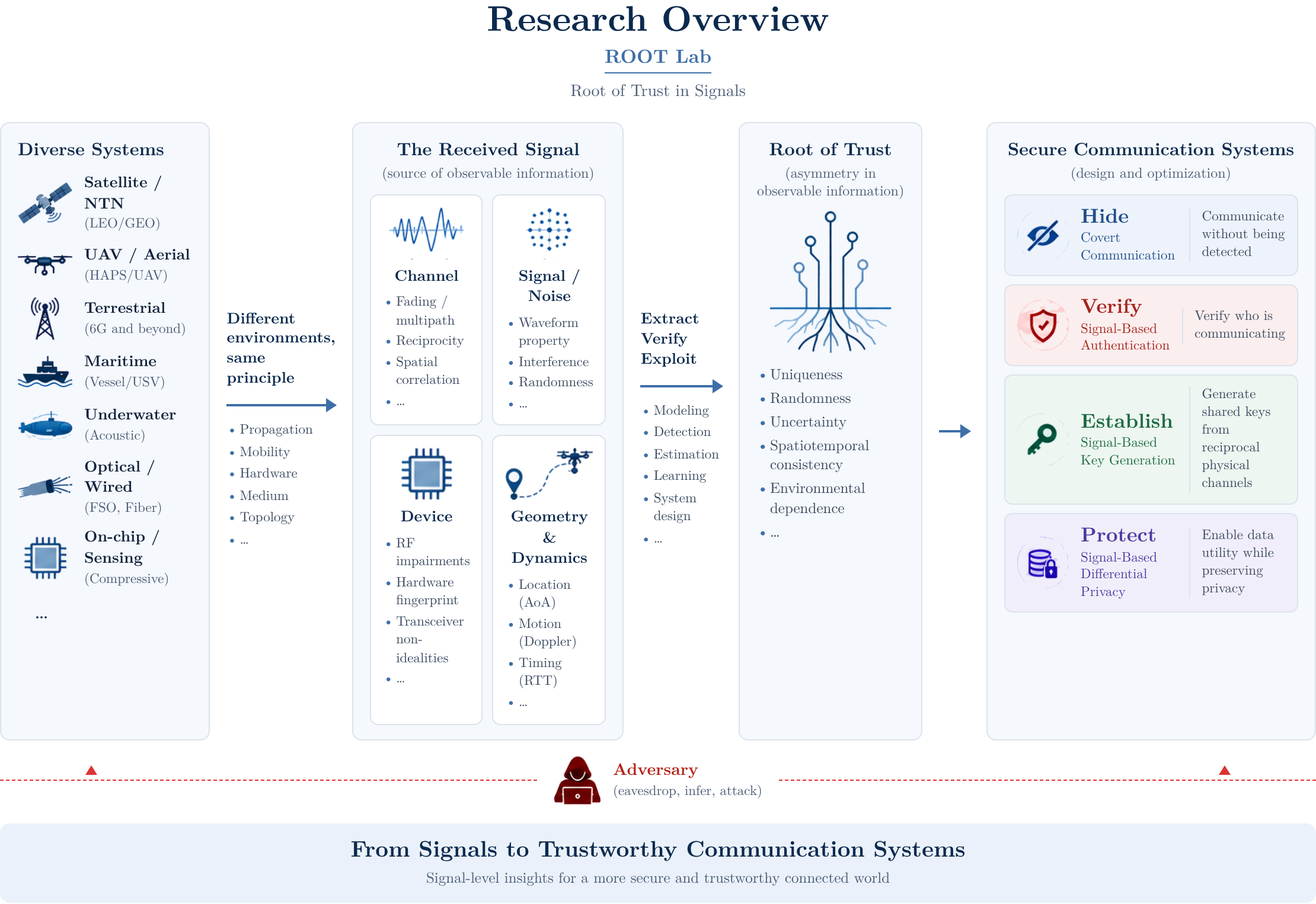
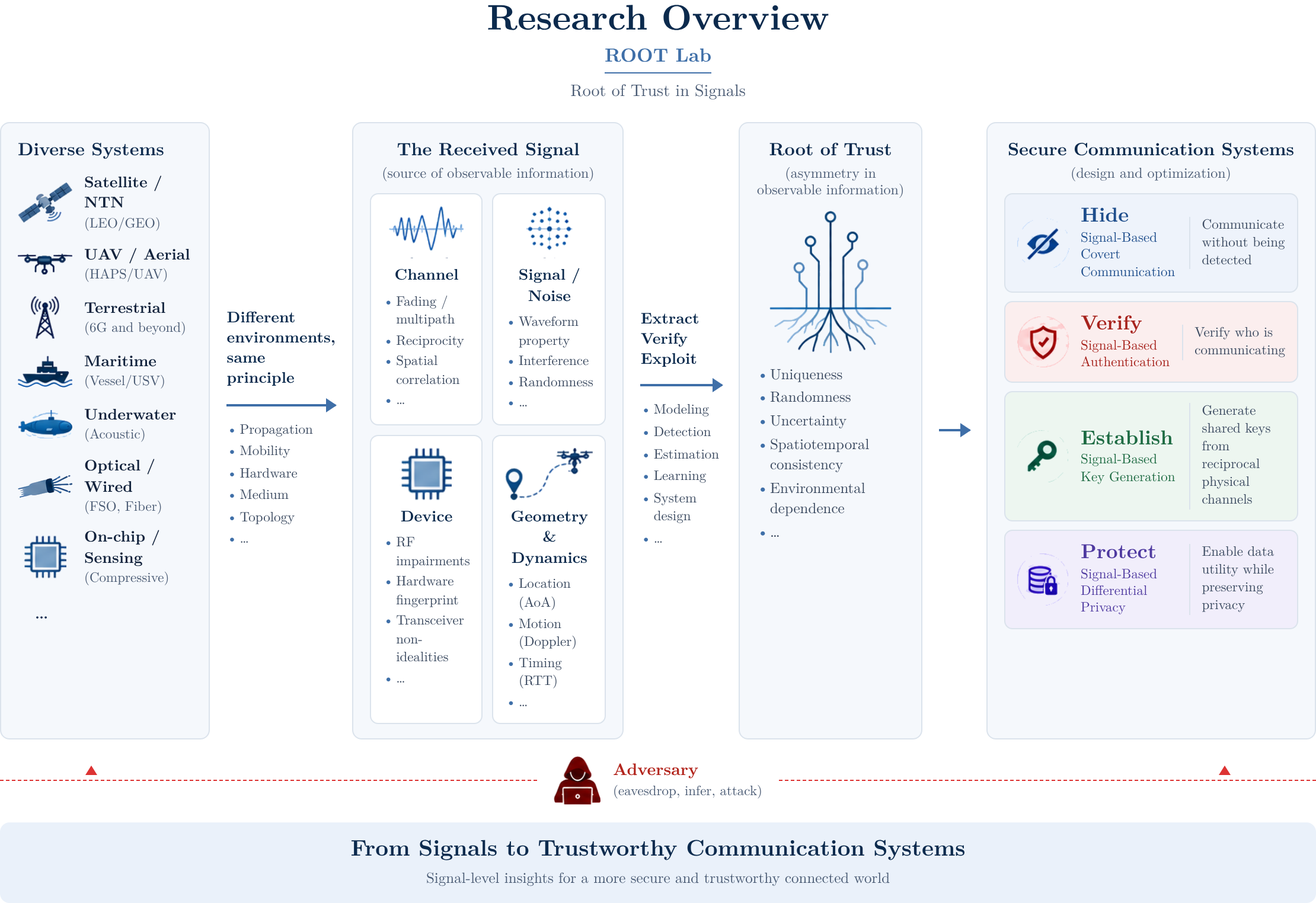
Unify covert method as Signal-Based Covert Communication (#44)
Rename "Covert Communication" to "Signal-Based Covert Communication" in
the Home scope card, Research objective card, overview-diagram objective,
and section heading, matching the other three methods. Overview figure
regenerated (v=6).

Claude-Session: https://claude.ai/code/session_01SH5JumREMWSvVFbqjGZATy

diff --git a/research.html b/research.html
@@ -167,7 +167,7 @@
       <p class="design-intro">Most security mechanisms build trust on top of the signal, through keys, certificates, and protocols. We ask whether trust can begin in the signal itself. We model the communication system as a whole &mdash; transmitter, channel, receiver, and observer &mdash; and study what each party can, and cannot, infer from the same received signal. The channel, the device and its noise, and the geometry and motion of the nodes all shape this difference, and we extract it, verify it, and turn it into a root of trust.</p>
       <p class="design-intro">From that root of trust we pursue four security objectives. Can a transmission be hidden altogether? Can the receiver tell who really sent a packet? Can two radios turn their shared observations into a key that nobody else holds? Can the noise and mixing of signals in the air keep a user&rsquo;s data private? In every case the security meaning of a signal depends on who observes it, when, and what they already know &mdash; so each objective becomes a question of how the system and its signals should be designed.</p>
       <div class="objective-row" aria-label="Four security objectives">
-        <a class="objective" href="#covert-communication"><div class="objective-top"><span>01 · Existence</span><span class="objective-abbr">Covert</span></div><b>Hide</b><small>the existence of communication</small><i class="objective-tech">Covert Communication</i></a>
+        <a class="objective" href="#covert-communication"><div class="objective-top"><span>01 · Existence</span><span class="objective-abbr">Covert</span></div><b>Hide</b><small>the existence of communication</small><i class="objective-tech">Signal-Based Covert Communication</i></a>
         <a class="objective" href="#authentication"><div class="objective-top"><span>02 · Authenticity</span><span class="objective-abbr">Auth</span></div><b>Verify</b><small>who is transmitting</small><i class="objective-tech">Signal-Based Authentication</i></a>
         <a class="objective" href="#key-generation"><div class="objective-top"><span>03 · Secret Key</span><span class="objective-abbr">Key Gen</span></div><b>Establish</b><small>shared secret keys</small><i class="objective-tech">Signal-Based Key Generation</i></a>
         <a class="objective" href="#differential-privacy"><div class="objective-top"><span>04 · Data Privacy</span><span class="objective-abbr">DP</span></div><b>Protect</b><small>individual data</small><i class="objective-tech">Signal-Based Differential Privacy</i></a>
@@ -183,17 +183,17 @@
 <div class="ov-link"><b class="ov-steps"><span>Extract</span><span>Verify</span><span>Exploit</span></b><span class="ov-arrow" aria-hidden="true"></span><ul><li>Modeling</li><li>Detection</li><li>Estimation</li><li>Learning</li><li>System design</li><li>…</li></ul></div>
 <section class="ov-col ov-root"><h4>Root of Trust<small>(asymmetry in observable information)</small></h4><img src="assets/img/research/icons/roots.png?v=1" alt="" loading="lazy"><ul><li>Uniqueness</li><li>Randomness</li><li>Uncertainty</li><li>Spatiotemporal consistency</li><li>Environmental dependence</li><li>…</li></ul></section>
 <div class="ov-link ov-link-short"><span class="ov-arrow" aria-hidden="true"></span></div>
-<section class="ov-col ov-sec"><h4>Secure Communication Systems<small>(design and optimization)</small></h4><div class="ov-objs"><div class="ov-obj ov-hide"><img src="assets/img/research/icons/hide.png?v=1" alt="" loading="lazy"><span class="ov-objtxt"><b>Hide</b><i>Covert Communication</i></span><span class="ov-objdesc">Communicate without being detected</span></div><div class="ov-obj ov-verify"><img src="assets/img/research/icons/verify.png?v=1" alt="" loading="lazy"><span class="ov-objtxt"><b>Verify</b><i>Signal-Based Authentication</i></span><span class="ov-objdesc">Verify who is communicating</span></div><div class="ov-obj ov-establish"><img src="assets/img/research/icons/establish.png?v=1" alt="" loading="lazy"><span class="ov-objtxt"><b>Establish</b><i>Signal-Based Key Generation</i></span><span class="ov-objdesc">Generate shared keys from reciprocal physical channels</span></div><div class="ov-obj ov-protect"><img src="assets/img/research/icons/protect.png?v=1" alt="" loading="lazy"><span class="ov-objtxt"><b>Protect</b><i>Signal-Based Differential Privacy</i></span><span class="ov-objdesc">Enable data utility while preserving privacy</span></div></div></section>
+<section class="ov-col ov-sec"><h4>Secure Communication Systems<small>(design and optimization)</small></h4><div class="ov-objs"><div class="ov-obj ov-hide"><img src="assets/img/research/icons/hide.png?v=1" alt="" loading="lazy"><span class="ov-objtxt"><b>Hide</b><i>Signal-Based Covert Communication</i></span><span class="ov-objdesc">Communicate without being detected</span></div><div class="ov-obj ov-verify"><img src="assets/img/research/icons/verify.png?v=1" alt="" loading="lazy"><span class="ov-objtxt"><b>Verify</b><i>Signal-Based Authentication</i></span><span class="ov-objdesc">Verify who is communicating</span></div><div class="ov-obj ov-establish"><img src="assets/img/research/icons/establish.png?v=1" alt="" loading="lazy"><span class="ov-objtxt"><b>Establish</b><i>Signal-Based Key Generation</i></span><span class="ov-objdesc">Generate shared keys from reciprocal physical channels</span></div><div class="ov-obj ov-protect"><img src="assets/img/research/icons/protect.png?v=1" alt="" loading="lazy"><span class="ov-objtxt"><b>Protect</b><i>Signal-Based Differential Privacy</i></span><span class="ov-objdesc">Enable data utility while preserving privacy</span></div></div></section>
 </div>
 <div class="ov-adv"><span class="ov-advline ov-advline-l" aria-hidden="true"></span><div class="ov-advbox"><img src="assets/img/research/icons/adversary.png?v=1" alt="" loading="lazy"><span><b>Adversary</b><small>(eavesdrop, infer, attack)</small></span></div><span class="ov-advline ov-advline-r" aria-hidden="true"></span></div>
 <div class="ov-foot"><b>From Signals to Trustworthy Communication Systems</b><span>Signal-level insights for a more secure and trustworthy connected world</span></div>
-</div><figcaption class="ov-dl"><a href="assets/img/research/overview-figure.png?v=5" target="_blank" rel="noopener">Open as image ↗</a></figcaption></figure>
+</div><figcaption class="ov-dl"><a href="assets/img/research/overview-figure.png?v=6" target="_blank" rel="noopener">Open as image ↗</a></figcaption></figure>
     </div>
   </section>
 
   <section class="architecture-section" id="covert-communication">
     <div class="wrap axis">
-      <div class="axis-copy"><span class="architecture-index">01 · Existence</span><h2>Covert Communication</h2><p>Encryption hides what you say. Covert communication hides that you said anything at all. Imagine a room where someone is listening for any sound. The goal is to talk to a friend so quietly, and so naturally, that the listener cannot tell your voice from the background noise, while your friend still hears every word.</p><p>In a wireless network the background noise is real. Other users, interference, and the fact that the eavesdropper does not know who is active all help to hide a transmission. We study how much can be sent this way, and how to choose transmit power, helping users, and relay positions so that the transmission stays hidden but still useful.</p><figure class="axis-theory-figure"><svg class="fig-svg" viewBox="0 0 1916 821" xmlns="http://www.w3.org/2000/svg" role="img" aria-label="Covert communication: Alice sends to Bob while cooperative users emit artificial noise; the warden Willie cannot separate transmission from silence"><defs><marker id="ab" viewBox="0 0 10 10" refX="9" refY="5" markerWidth="5" markerHeight="5" orient="auto-start-reverse"><path d="M0 0 L10 5 L0 10 z" fill="#2d5fb3"/></marker><marker id="ar" viewBox="0 0 10 10" refX="9" refY="5" markerWidth="5" markerHeight="5" orient="auto-start-reverse"><path d="M0 0 L10 5 L0 10 z" fill="#d0342c"/></marker><marker id="ag" viewBox="0 0 10 10" refX="9" refY="5" markerWidth="5" markerHeight="5" orient="auto-start-reverse"><path d="M0 0 L10 5 L0 10 z" fill="#7a8290"/></marker><marker id="ak" viewBox="0 0 10 10" refX="9" refY="5" markerWidth="5" markerHeight="5" orient="auto-start-reverse"><path d="M0 0 L10 5 L0 10 z" fill="#10213b"/></marker><marker id="an" viewBox="0 0 10 10" refX="9" refY="5" markerWidth="5" markerHeight="5" orient="auto-start-reverse"><path d="M0 0 L10 5 L0 10 z" fill="#0b2a4d"/></marker></defs><rect width="1916" height="821" fill="#fff"/><text x="175" y="138" text-anchor="middle" fill="#10213b" style="font-size:30px" >Transmitter</text><text x="175" y="174" text-anchor="middle" fill="#10213b" style="font-size:28px" >(Alice)</text><circle cx="175" cy="232" r="20" fill="#8fb0e3" stroke="#2d5fb3" stroke-width="2.5"/><path d="M200.3 209.2 A34 34 0 0 1 200.3 254.8" fill="none" stroke="#2d5fb3" stroke-width="2.8" stroke-linecap="round"/><path d="M213.6 197.2 A52 52 0 0 1 213.6 266.8" fill="none" stroke="#2d5fb3" stroke-width="2.8" stroke-linecap="round"/><path d="M227.0 185.2 A70 70 0 0 1 227.0 278.8" fill="none" stroke="#2d5fb3" stroke-width="2.8" stroke-linecap="round"/><text x="930" y="122" text-anchor="middle" fill="#10213b" style="font-size:30px" >Receiver</text><text x="930" y="158" text-anchor="middle" fill="#10213b" style="font-size:28px" >(Bob)</text><circle cx="928" cy="222" r="20" fill="#8fb0e3" stroke="#2d5fb3" stroke-width="2.5"/><path d="M953.3 199.2 A34 34 0 0 1 953.3 244.8" fill="none" stroke="#2d5fb3" stroke-width="2.8" stroke-linecap="round"/><path d="M966.6 187.2 A52 52 0 0 1 966.6 256.8" fill="none" stroke="#2d5fb3" stroke-width="2.8" stroke-linecap="round"/><path d="M980.0 175.2 A70 70 0 0 1 980.0 268.8" fill="none" stroke="#2d5fb3" stroke-width="2.8" stroke-linecap="round"/><line x1="305" y1="230" x2="888" y2="230" stroke="#2d5fb3" stroke-width="3.5" marker-end="url(#ab)"/><text x="595" y="208" text-anchor="middle" fill="#10213b" style="font-size:30px;font-style:italic">h<tspan dy="9" style="font-size:20px">AB</tspan></text><rect x="88" y="432" width="530" height="152" rx="4" fill="none" stroke="#10213b" stroke-width="2" stroke-dasharray="10 8"/><circle cx="170" cy="505" r="20" fill="#bfc4cc" stroke="#10213b" stroke-width="2.5"/><path d="M192.3 484.9 A30 30 0 0 1 192.3 525.1" fill="none" stroke="#9aa1ab" stroke-width="2.2" stroke-linecap="round"/><path d="M204.2 474.2 A46 46 0 0 1 204.2 535.8" fill="none" stroke="#9aa1ab" stroke-width="2.2" stroke-linecap="round"/><path d="M216.1 463.5 A62 62 0 0 1 216.1 546.5" fill="none" stroke="#9aa1ab" stroke-width="2.2" stroke-linecap="round"/><circle cx="332" cy="505" r="20" fill="#bfc4cc" stroke="#10213b" stroke-width="2.5"/><path d="M354.3 484.9 A30 30 0 0 1 354.3 525.1" fill="none" stroke="#9aa1ab" stroke-width="2.2" stroke-linecap="round"/><path d="M366.2 474.2 A46 46 0 0 1 366.2 535.8" fill="none" stroke="#9aa1ab" stroke-width="2.2" stroke-linecap="round"/><path d="M378.1 463.5 A62 62 0 0 1 378.1 546.5" fill="none" stroke="#9aa1ab" stroke-width="2.2" stroke-linecap="round"/><circle cx="530" cy="505" r="20" fill="#bfc4cc" stroke="#10213b" stroke-width="2.5"/><path d="M552.3 484.9 A30 30 0 0 1 552.3 525.1" fill="none" stroke="#9aa1ab" stroke-width="2.2" stroke-linecap="round"/><path d="M564.2 474.2 A46 46 0 0 1 564.2 535.8" fill="none" stroke="#9aa1ab" stroke-width="2.2" stroke-linecap="round"/><path d="M576.1 463.5 A62 62 0 0 1 576.1 546.5" fill="none" stroke="#9aa1ab" stroke-width="2.2" stroke-linecap="round"/><text x="450" y="505" text-anchor="middle" fill="#10213b" style="font-size:26px" >· · ·</text><text x="352" y="560" text-anchor="middle" fill="#10213b" style="font-size:26px" >Cooperative users (artificial noise)</text><line x1="262" y1="432" x2="878" y2="256" stroke="#7a8290" stroke-width="2.6" stroke-dasharray="10 8" marker-end="url(#ag)"/><line x1="462" y1="432" x2="878" y2="270" stroke="#7a8290" stroke-width="2.6" stroke-dasharray="10 8" marker-end="url(#ag)"/><line x1="618" y1="440" x2="880" y2="292" stroke="#7a8290" stroke-width="2.6" stroke-dasharray="10 8" marker-end="url(#ag)"/><text x="595" y="415" text-anchor="middle" fill="#10213b" style="font-size:28px;font-style:italic">h<tspan dy="8" style="font-size:19px">CB</tspan></text><circle cx="1115" cy="473" r="20" fill="#f1a9a5" stroke="#d0342c" stroke-width="2.5"/><path d="M1140.3 450.2 A34 34 0 0 1 1140.3 495.8" fill="none" stroke="#d0342c" stroke-width="2.8" stroke-linecap="round"/><path d="M1153.6 438.2 A52 52 0 0 1 1153.6 507.8" fill="none" stroke="#d0342c" stroke-width="2.8" stroke-linecap="round"/><path d="M1167.0 426.2 A70 70 0 0 1 1167.0 519.8" fill="none" stroke="#d0342c" stroke-width="2.8" stroke-linecap="round"/><text x="1128" y="530" text-anchor="middle" fill="#10213b" style="font-size:28px" >Adversary</text><text x="1128" y="565" text-anchor="middle" fill="#10213b" style="font-size:28px" >(Willie)</text><line x1="312" y1="250" x2="1082" y2="455" stroke="#d0342c" stroke-width="2.6" stroke-dasharray="12 9" marker-end="url(#ar)"/><line x1="620" y1="515" x2="1082" y2="482" stroke="#d0342c" stroke-width="2.6" stroke-dasharray="12 9" marker-end="url(#ar)"/><text x="882" y="392" text-anchor="middle" fill="#10213b" style="font-size:30px;font-style:italic">h<tspan dy="9" style="font-size:20px">AW</tspan></text><line x1="95" y1="655" x2="243" y2="655" stroke="#2d5fb3" stroke-width="3" marker-end="url(#ab)"/><text x="285" y="664" text-anchor="start" fill="#10213b" style="font-size:26px" >Intended (covert) transmission</text><line x1="95" y1="693" x2="243" y2="693" stroke="#7a8290" stroke-width="2.6" stroke-dasharray="10 8" marker-end="url(#ag)"/><text x="285" y="702" text-anchor="start" fill="#10213b" style="font-size:26px" >Cooperative transmission (artificial noise)</text><line x1="95" y1="733" x2="243" y2="733" stroke="#d0342c" stroke-width="2.6" stroke-dasharray="12 9" marker-end="url(#ar)"/><text x="285" y="742" text-anchor="start" fill="#10213b" style="font-size:26px" >Adversary&#8217;s observation</text><line x1="1250" y1="60" x2="1250" y2="745" stroke="#9aa1ab" stroke-width="2" stroke-dasharray="8 8"/><text x="1551" y="100" text-anchor="middle" fill="#10213b" style="font-size:30px" >Adversary&#8217;s detection problem</text><line x1="1355" y1="455" x2="1355" y2="150" stroke="#10213b" stroke-width="2.5" marker-end="url(#ak)"/><line x1="1355" y1="455" x2="1900" y2="455" stroke="#10213b" stroke-width="2.5" marker-end="url(#ak)"/><path d="M1370.0 446.7 L1374.4 445.3 L1378.8 443.7 L1383.2 441.8 L1387.7 439.8 L1392.1 437.4 L1396.5 434.8 L1400.9 431.9 L1405.3 428.7 L1409.8 425.1 L1414.2 421.2 L1418.6 417.0 L1423.0 412.4 L1427.4 407.4 L1431.8 402.0 L1436.2 396.3 L1440.7 390.2 L1445.1 383.7 L1449.5 377.0 L1453.9 369.9 L1458.3 362.5 L1462.8 355.0 L1467.2 347.2 L1471.6 339.3 L1476.0 331.3 L1480.4 323.2 L1484.8 315.2 L1489.2 307.3 L1493.7 299.6 L1498.1 292.1 L1502.5 285.0 L1506.9 278.2 L1511.3 271.9 L1515.8 266.1 L1520.2 261.0 L1524.6 256.4 L1529.0 252.6 L1533.4 249.5 L1537.8 247.2 L1542.2 245.7 L1546.7 245.0 L1551.1 245.2 L1555.5 246.2 L1559.9 248.0 L1564.3 250.6 L1568.8 254.0 L1573.2 258.1 L1577.6 262.9 L1582.0 268.4 L1586.4 274.4 L1590.8 280.9 L1595.2 287.8 L1599.7 295.1 L1604.1 302.7 L1608.5 310.5 L1612.9 318.4 L1617.3 326.4 L1621.8 334.4 L1626.2 342.4 L1630.6 350.3 L1635.0 358.0 L1639.4 365.5 L1643.8 372.7 L1648.2 379.7 L1652.7 386.3 L1657.1 392.6 L1661.5 398.6 L1665.9 404.2 L1670.3 409.4 L1674.8 414.2 L1679.2 418.7 L1683.6 422.8 L1688.0 426.6 L1692.4 430.0 L1696.8 433.1 L1701.2 435.9 L1705.7 438.4 L1710.1 440.6 L1714.5 442.6 L1718.9 444.3 L1723.3 445.9 L1727.8 447.2 L1732.2 448.4 L1736.6 449.4 L1741.0 450.3 L1745.4 451.1 L1749.8 451.7 L1754.2 452.3 L1758.7 452.7 L1763.1 453.1 L1767.5 453.5 L1771.9 453.7 L1776.3 454.0 L1780.8 454.2 L1785.2 454.3 L1789.6 454.5 L1794.0 454.6 L1798.4 454.7 L1802.8 454.7 L1807.2 454.8 L1811.7 454.8 L1816.1 454.9 L1820.5 454.9 L1824.9 454.9 L1829.3 454.9 L1833.8 454.9 L1838.2 455.0 L1842.6 455.0 L1847.0 455.0 L1851.4 455.0 L1855.8 455.0 L1860.2 455.0 L1864.7 455.0 L1869.1 455.0 L1873.5 455.0 L1877.9 455.0 L1882.3 455.0 L1886.8 455.0 L1891.2 455.0 L1895.6 455.0 L1900.0 455.0" fill="none" stroke="#10213b" stroke-width="2.5" stroke-dasharray="10 8"/><path d="M1370.0 455.0 L1374.4 455.0 L1378.8 455.0 L1383.2 455.0 L1387.7 455.0 L1392.1 455.0 L1396.5 455.0 L1400.9 455.0 L1405.3 454.9 L1409.8 454.9 L1414.2 454.9 L1418.6 454.9 L1423.0 454.8 L1427.4 454.8 L1431.8 454.7 L1436.2 454.6 L1440.7 454.5 L1445.1 454.4 L1449.5 454.3 L1453.9 454.1 L1458.3 453.8 L1462.8 453.5 L1467.2 453.2 L1471.6 452.7 L1476.0 452.2 L1480.4 451.6 L1484.8 450.8 L1489.2 449.9 L1493.7 448.9 L1498.1 447.7 L1502.5 446.3 L1506.9 444.6 L1511.3 442.7 L1515.8 440.5 L1520.2 438.1 L1524.6 435.3 L1529.0 432.2 L1533.4 428.7 L1537.8 424.8 L1542.2 420.6 L1546.7 415.9 L1551.1 410.8 L1555.5 405.3 L1559.9 399.5 L1564.3 393.2 L1568.8 386.6 L1573.2 379.7 L1577.6 372.5 L1582.0 365.0 L1586.4 357.4 L1590.8 349.6 L1595.2 341.9 L1599.7 334.1 L1604.1 326.5 L1608.5 319.1 L1612.9 312.0 L1617.3 305.3 L1621.8 299.1 L1626.2 293.4 L1630.6 288.4 L1635.0 284.1 L1639.4 280.6 L1643.8 277.9 L1648.2 276.1 L1652.7 275.1 L1657.1 275.1 L1661.5 276.0 L1665.9 277.8 L1670.3 280.4 L1674.8 283.9 L1679.2 288.2 L1683.6 293.1 L1688.0 298.8 L1692.4 305.0 L1696.8 311.6 L1701.2 318.7 L1705.7 326.1 L1710.1 333.7 L1714.5 341.4 L1718.9 349.2 L1723.3 356.9 L1727.8 364.6 L1732.2 372.0 L1736.6 379.3 L1741.0 386.2 L1745.4 392.8 L1749.8 399.1 L1754.2 405.0 L1758.7 410.5 L1763.1 415.6 L1767.5 420.3 L1771.9 424.6 L1776.3 428.5 L1780.8 432.0 L1785.2 435.1 L1789.6 437.9 L1794.0 440.4 L1798.4 442.6 L1802.8 444.5 L1807.2 446.2 L1811.7 447.6 L1816.1 448.8 L1820.5 449.9 L1824.9 450.8 L1829.3 451.5 L1833.8 452.2 L1838.2 452.7 L1842.6 453.1 L1847.0 453.5 L1851.4 453.8 L1855.8 454.1 L1860.2 454.2 L1864.7 454.4 L1869.1 454.5 L1873.5 454.6 L1877.9 454.7 L1882.3 454.8 L1886.8 454.8 L1891.2 454.9 L1895.6 454.9 L1900.0 454.9" fill="none" stroke="#d0342c" stroke-width="3"/><line x1="1633" y1="160" x2="1633" y2="455" stroke="#10213b" stroke-width="2"/><text x="1633" y="484" text-anchor="middle" fill="#10213b" style="font-size:26px;font-style:italic" >&#947;</text><text x="1700" y="522" text-anchor="end" fill="#10213b" style="font-size:26px" >Test statistic</text><text x="1712" y="522" text-anchor="start" fill="#10213b" style="font-size:26px;font-style:italic" >T</text><text x="1316" y="330" text-anchor="middle" fill="#10213b" style="font-size:24px" transform="rotate(-90 1316 330)">Probability density</text><rect x="1636" y="130" width="269" height="88" rx="10" fill="#fff" stroke="#c9d0da" stroke-width="1.5"/><line x1="1652" y1="157" x2="1706" y2="157" stroke="#10213b" stroke-width="2.5" stroke-dasharray="8 6"/><line x1="1652" y1="194" x2="1706" y2="194" stroke="#d0342c" stroke-width="3"/><text x="1720" y="164" style="font-size:20px"><tspan style="font-style:italic">H</tspan><tspan dy="6" style="font-size:15px">0</tspan><tspan dy="-6"> : no transmission</tspan></text><text x="1720" y="201" style="font-size:20px"><tspan style="font-style:italic">H</tspan><tspan dy="6" style="font-size:15px">1</tspan><tspan dy="-6"> : transmission</tspan></text><rect x="1313" y="572" width="592" height="172" rx="12" fill="#f3f5f8" stroke="#dde3ea" stroke-width="1.5"/><text x="1330" y="612" text-anchor="start" fill="#10213b" style="font-size:23px" >Covert communication aims to make the transmission</text><text x="1330" y="648" text-anchor="start" fill="#10213b" style="font-size:23px" >statistically indistinguishable from silence:</text><text x="1609" y="712" text-anchor="middle" style="font-size:34px"><tspan style="font-style:italic">&#958;</tspan> = <tspan style="font-style:italic">P</tspan><tspan dy="9" style="font-size:22px">FA</tspan><tspan dy="-9"> + </tspan><tspan style="font-style:italic">P</tspan><tspan dy="9" style="font-size:22px">MD</tspan><tspan dy="-9"> &#8594; 1</tspan></text></svg><figcaption class="ov-dl"><a href="assets/img/research/covert-figure.png?v=1" target="_blank" rel="noopener">Open as image &#8599;</a></figcaption></figure></div>
+      <div class="axis-copy"><span class="architecture-index">01 · Existence</span><h2>Signal-Based Covert Communication</h2><p>Encryption hides what you say. Covert communication hides that you said anything at all. Imagine a room where someone is listening for any sound. The goal is to talk to a friend so quietly, and so naturally, that the listener cannot tell your voice from the background noise, while your friend still hears every word.</p><p>In a wireless network the background noise is real. Other users, interference, and the fact that the eavesdropper does not know who is active all help to hide a transmission. We study how much can be sent this way, and how to choose transmit power, helping users, and relay positions so that the transmission stays hidden but still useful.</p><figure class="axis-theory-figure"><svg class="fig-svg" viewBox="0 0 1916 821" xmlns="http://www.w3.org/2000/svg" role="img" aria-label="Covert communication: Alice sends to Bob while cooperative users emit artificial noise; the warden Willie cannot separate transmission from silence"><defs><marker id="ab" viewBox="0 0 10 10" refX="9" refY="5" markerWidth="5" markerHeight="5" orient="auto-start-reverse"><path d="M0 0 L10 5 L0 10 z" fill="#2d5fb3"/></marker><marker id="ar" viewBox="0 0 10 10" refX="9" refY="5" markerWidth="5" markerHeight="5" orient="auto-start-reverse"><path d="M0 0 L10 5 L0 10 z" fill="#d0342c"/></marker><marker id="ag" viewBox="0 0 10 10" refX="9" refY="5" markerWidth="5" markerHeight="5" orient="auto-start-reverse"><path d="M0 0 L10 5 L0 10 z" fill="#7a8290"/></marker><marker id="ak" viewBox="0 0 10 10" refX="9" refY="5" markerWidth="5" markerHeight="5" orient="auto-start-reverse"><path d="M0 0 L10 5 L0 10 z" fill="#10213b"/></marker><marker id="an" viewBox="0 0 10 10" refX="9" refY="5" markerWidth="5" markerHeight="5" orient="auto-start-reverse"><path d="M0 0 L10 5 L0 10 z" fill="#0b2a4d"/></marker></defs><rect width="1916" height="821" fill="#fff"/><text x="175" y="138" text-anchor="middle" fill="#10213b" style="font-size:30px" >Transmitter</text><text x="175" y="174" text-anchor="middle" fill="#10213b" style="font-size:28px" >(Alice)</text><circle cx="175" cy="232" r="20" fill="#8fb0e3" stroke="#2d5fb3" stroke-width="2.5"/><path d="M200.3 209.2 A34 34 0 0 1 200.3 254.8" fill="none" stroke="#2d5fb3" stroke-width="2.8" stroke-linecap="round"/><path d="M213.6 197.2 A52 52 0 0 1 213.6 266.8" fill="none" stroke="#2d5fb3" stroke-width="2.8" stroke-linecap="round"/><path d="M227.0 185.2 A70 70 0 0 1 227.0 278.8" fill="none" stroke="#2d5fb3" stroke-width="2.8" stroke-linecap="round"/><text x="930" y="122" text-anchor="middle" fill="#10213b" style="font-size:30px" >Receiver</text><text x="930" y="158" text-anchor="middle" fill="#10213b" style="font-size:28px" >(Bob)</text><circle cx="928" cy="222" r="20" fill="#8fb0e3" stroke="#2d5fb3" stroke-width="2.5"/><path d="M953.3 199.2 A34 34 0 0 1 953.3 244.8" fill="none" stroke="#2d5fb3" stroke-width="2.8" stroke-linecap="round"/><path d="M966.6 187.2 A52 52 0 0 1 966.6 256.8" fill="none" stroke="#2d5fb3" stroke-width="2.8" stroke-linecap="round"/><path d="M980.0 175.2 A70 70 0 0 1 980.0 268.8" fill="none" stroke="#2d5fb3" stroke-width="2.8" stroke-linecap="round"/><line x1="305" y1="230" x2="888" y2="230" stroke="#2d5fb3" stroke-width="3.5" marker-end="url(#ab)"/><text x="595" y="208" text-anchor="middle" fill="#10213b" style="font-size:30px;font-style:italic">h<tspan dy="9" style="font-size:20px">AB</tspan></text><rect x="88" y="432" width="530" height="152" rx="4" fill="none" stroke="#10213b" stroke-width="2" stroke-dasharray="10 8"/><circle cx="170" cy="505" r="20" fill="#bfc4cc" stroke="#10213b" stroke-width="2.5"/><path d="M192.3 484.9 A30 30 0 0 1 192.3 525.1" fill="none" stroke="#9aa1ab" stroke-width="2.2" stroke-linecap="round"/><path d="M204.2 474.2 A46 46 0 0 1 204.2 535.8" fill="none" stroke="#9aa1ab" stroke-width="2.2" stroke-linecap="round"/><path d="M216.1 463.5 A62 62 0 0 1 216.1 546.5" fill="none" stroke="#9aa1ab" stroke-width="2.2" stroke-linecap="round"/><circle cx="332" cy="505" r="20" fill="#bfc4cc" stroke="#10213b" stroke-width="2.5"/><path d="M354.3 484.9 A30 30 0 0 1 354.3 525.1" fill="none" stroke="#9aa1ab" stroke-width="2.2" stroke-linecap="round"/><path d="M366.2 474.2 A46 46 0 0 1 366.2 535.8" fill="none" stroke="#9aa1ab" stroke-width="2.2" stroke-linecap="round"/><path d="M378.1 463.5 A62 62 0 0 1 378.1 546.5" fill="none" stroke="#9aa1ab" stroke-width="2.2" stroke-linecap="round"/><circle cx="530" cy="505" r="20" fill="#bfc4cc" stroke="#10213b" stroke-width="2.5"/><path d="M552.3 484.9 A30 30 0 0 1 552.3 525.1" fill="none" stroke="#9aa1ab" stroke-width="2.2" stroke-linecap="round"/><path d="M564.2 474.2 A46 46 0 0 1 564.2 535.8" fill="none" stroke="#9aa1ab" stroke-width="2.2" stroke-linecap="round"/><path d="M576.1 463.5 A62 62 0 0 1 576.1 546.5" fill="none" stroke="#9aa1ab" stroke-width="2.2" stroke-linecap="round"/><text x="450" y="505" text-anchor="middle" fill="#10213b" style="font-size:26px" >· · ·</text><text x="352" y="560" text-anchor="middle" fill="#10213b" style="font-size:26px" >Cooperative users (artificial noise)</text><line x1="262" y1="432" x2="878" y2="256" stroke="#7a8290" stroke-width="2.6" stroke-dasharray="10 8" marker-end="url(#ag)"/><line x1="462" y1="432" x2="878" y2="270" stroke="#7a8290" stroke-width="2.6" stroke-dasharray="10 8" marker-end="url(#ag)"/><line x1="618" y1="440" x2="880" y2="292" stroke="#7a8290" stroke-width="2.6" stroke-dasharray="10 8" marker-end="url(#ag)"/><text x="595" y="415" text-anchor="middle" fill="#10213b" style="font-size:28px;font-style:italic">h<tspan dy="8" style="font-size:19px">CB</tspan></text><circle cx="1115" cy="473" r="20" fill="#f1a9a5" stroke="#d0342c" stroke-width="2.5"/><path d="M1140.3 450.2 A34 34 0 0 1 1140.3 495.8" fill="none" stroke="#d0342c" stroke-width="2.8" stroke-linecap="round"/><path d="M1153.6 438.2 A52 52 0 0 1 1153.6 507.8" fill="none" stroke="#d0342c" stroke-width="2.8" stroke-linecap="round"/><path d="M1167.0 426.2 A70 70 0 0 1 1167.0 519.8" fill="none" stroke="#d0342c" stroke-width="2.8" stroke-linecap="round"/><text x="1128" y="530" text-anchor="middle" fill="#10213b" style="font-size:28px" >Adversary</text><text x="1128" y="565" text-anchor="middle" fill="#10213b" style="font-size:28px" >(Willie)</text><line x1="312" y1="250" x2="1082" y2="455" stroke="#d0342c" stroke-width="2.6" stroke-dasharray="12 9" marker-end="url(#ar)"/><line x1="620" y1="515" x2="1082" y2="482" stroke="#d0342c" stroke-width="2.6" stroke-dasharray="12 9" marker-end="url(#ar)"/><text x="882" y="392" text-anchor="middle" fill="#10213b" style="font-size:30px;font-style:italic">h<tspan dy="9" style="font-size:20px">AW</tspan></text><line x1="95" y1="655" x2="243" y2="655" stroke="#2d5fb3" stroke-width="3" marker-end="url(#ab)"/><text x="285" y="664" text-anchor="start" fill="#10213b" style="font-size:26px" >Intended (covert) transmission</text><line x1="95" y1="693" x2="243" y2="693" stroke="#7a8290" stroke-width="2.6" stroke-dasharray="10 8" marker-end="url(#ag)"/><text x="285" y="702" text-anchor="start" fill="#10213b" style="font-size:26px" >Cooperative transmission (artificial noise)</text><line x1="95" y1="733" x2="243" y2="733" stroke="#d0342c" stroke-width="2.6" stroke-dasharray="12 9" marker-end="url(#ar)"/><text x="285" y="742" text-anchor="start" fill="#10213b" style="font-size:26px" >Adversary&#8217;s observation</text><line x1="1250" y1="60" x2="1250" y2="745" stroke="#9aa1ab" stroke-width="2" stroke-dasharray="8 8"/><text x="1551" y="100" text-anchor="middle" fill="#10213b" style="font-size:30px" >Adversary&#8217;s detection problem</text><line x1="1355" y1="455" x2="1355" y2="150" stroke="#10213b" stroke-width="2.5" marker-end="url(#ak)"/><line x1="1355" y1="455" x2="1900" y2="455" stroke="#10213b" stroke-width="2.5" marker-end="url(#ak)"/><path d="M1370.0 446.7 L1374.4 445.3 L1378.8 443.7 L1383.2 441.8 L1387.7 439.8 L1392.1 437.4 L1396.5 434.8 L1400.9 431.9 L1405.3 428.7 L1409.8 425.1 L1414.2 421.2 L1418.6 417.0 L1423.0 412.4 L1427.4 407.4 L1431.8 402.0 L1436.2 396.3 L1440.7 390.2 L1445.1 383.7 L1449.5 377.0 L1453.9 369.9 L1458.3 362.5 L1462.8 355.0 L1467.2 347.2 L1471.6 339.3 L1476.0 331.3 L1480.4 323.2 L1484.8 315.2 L1489.2 307.3 L1493.7 299.6 L1498.1 292.1 L1502.5 285.0 L1506.9 278.2 L1511.3 271.9 L1515.8 266.1 L1520.2 261.0 L1524.6 256.4 L1529.0 252.6 L1533.4 249.5 L1537.8 247.2 L1542.2 245.7 L1546.7 245.0 L1551.1 245.2 L1555.5 246.2 L1559.9 248.0 L1564.3 250.6 L1568.8 254.0 L1573.2 258.1 L1577.6 262.9 L1582.0 268.4 L1586.4 274.4 L1590.8 280.9 L1595.2 287.8 L1599.7 295.1 L1604.1 302.7 L1608.5 310.5 L1612.9 318.4 L1617.3 326.4 L1621.8 334.4 L1626.2 342.4 L1630.6 350.3 L1635.0 358.0 L1639.4 365.5 L1643.8 372.7 L1648.2 379.7 L1652.7 386.3 L1657.1 392.6 L1661.5 398.6 L1665.9 404.2 L1670.3 409.4 L1674.8 414.2 L1679.2 418.7 L1683.6 422.8 L1688.0 426.6 L1692.4 430.0 L1696.8 433.1 L1701.2 435.9 L1705.7 438.4 L1710.1 440.6 L1714.5 442.6 L1718.9 444.3 L1723.3 445.9 L1727.8 447.2 L1732.2 448.4 L1736.6 449.4 L1741.0 450.3 L1745.4 451.1 L1749.8 451.7 L1754.2 452.3 L1758.7 452.7 L1763.1 453.1 L1767.5 453.5 L1771.9 453.7 L1776.3 454.0 L1780.8 454.2 L1785.2 454.3 L1789.6 454.5 L1794.0 454.6 L1798.4 454.7 L1802.8 454.7 L1807.2 454.8 L1811.7 454.8 L1816.1 454.9 L1820.5 454.9 L1824.9 454.9 L1829.3 454.9 L1833.8 454.9 L1838.2 455.0 L1842.6 455.0 L1847.0 455.0 L1851.4 455.0 L1855.8 455.0 L1860.2 455.0 L1864.7 455.0 L1869.1 455.0 L1873.5 455.0 L1877.9 455.0 L1882.3 455.0 L1886.8 455.0 L1891.2 455.0 L1895.6 455.0 L1900.0 455.0" fill="none" stroke="#10213b" stroke-width="2.5" stroke-dasharray="10 8"/><path d="M1370.0 455.0 L1374.4 455.0 L1378.8 455.0 L1383.2 455.0 L1387.7 455.0 L1392.1 455.0 L1396.5 455.0 L1400.9 455.0 L1405.3 454.9 L1409.8 454.9 L1414.2 454.9 L1418.6 454.9 L1423.0 454.8 L1427.4 454.8 L1431.8 454.7 L1436.2 454.6 L1440.7 454.5 L1445.1 454.4 L1449.5 454.3 L1453.9 454.1 L1458.3 453.8 L1462.8 453.5 L1467.2 453.2 L1471.6 452.7 L1476.0 452.2 L1480.4 451.6 L1484.8 450.8 L1489.2 449.9 L1493.7 448.9 L1498.1 447.7 L1502.5 446.3 L1506.9 444.6 L1511.3 442.7 L1515.8 440.5 L1520.2 438.1 L1524.6 435.3 L1529.0 432.2 L1533.4 428.7 L1537.8 424.8 L1542.2 420.6 L1546.7 415.9 L1551.1 410.8 L1555.5 405.3 L1559.9 399.5 L1564.3 393.2 L1568.8 386.6 L1573.2 379.7 L1577.6 372.5 L1582.0 365.0 L1586.4 357.4 L1590.8 349.6 L1595.2 341.9 L1599.7 334.1 L1604.1 326.5 L1608.5 319.1 L1612.9 312.0 L1617.3 305.3 L1621.8 299.1 L1626.2 293.4 L1630.6 288.4 L1635.0 284.1 L1639.4 280.6 L1643.8 277.9 L1648.2 276.1 L1652.7 275.1 L1657.1 275.1 L1661.5 276.0 L1665.9 277.8 L1670.3 280.4 L1674.8 283.9 L1679.2 288.2 L1683.6 293.1 L1688.0 298.8 L1692.4 305.0 L1696.8 311.6 L1701.2 318.7 L1705.7 326.1 L1710.1 333.7 L1714.5 341.4 L1718.9 349.2 L1723.3 356.9 L1727.8 364.6 L1732.2 372.0 L1736.6 379.3 L1741.0 386.2 L1745.4 392.8 L1749.8 399.1 L1754.2 405.0 L1758.7 410.5 L1763.1 415.6 L1767.5 420.3 L1771.9 424.6 L1776.3 428.5 L1780.8 432.0 L1785.2 435.1 L1789.6 437.9 L1794.0 440.4 L1798.4 442.6 L1802.8 444.5 L1807.2 446.2 L1811.7 447.6 L1816.1 448.8 L1820.5 449.9 L1824.9 450.8 L1829.3 451.5 L1833.8 452.2 L1838.2 452.7 L1842.6 453.1 L1847.0 453.5 L1851.4 453.8 L1855.8 454.1 L1860.2 454.2 L1864.7 454.4 L1869.1 454.5 L1873.5 454.6 L1877.9 454.7 L1882.3 454.8 L1886.8 454.8 L1891.2 454.9 L1895.6 454.9 L1900.0 454.9" fill="none" stroke="#d0342c" stroke-width="3"/><line x1="1633" y1="160" x2="1633" y2="455" stroke="#10213b" stroke-width="2"/><text x="1633" y="484" text-anchor="middle" fill="#10213b" style="font-size:26px;font-style:italic" >&#947;</text><text x="1700" y="522" text-anchor="end" fill="#10213b" style="font-size:26px" >Test statistic</text><text x="1712" y="522" text-anchor="start" fill="#10213b" style="font-size:26px;font-style:italic" >T</text><text x="1316" y="330" text-anchor="middle" fill="#10213b" style="font-size:24px" transform="rotate(-90 1316 330)">Probability density</text><rect x="1636" y="130" width="269" height="88" rx="10" fill="#fff" stroke="#c9d0da" stroke-width="1.5"/><line x1="1652" y1="157" x2="1706" y2="157" stroke="#10213b" stroke-width="2.5" stroke-dasharray="8 6"/><line x1="1652" y1="194" x2="1706" y2="194" stroke="#d0342c" stroke-width="3"/><text x="1720" y="164" style="font-size:20px"><tspan style="font-style:italic">H</tspan><tspan dy="6" style="font-size:15px">0</tspan><tspan dy="-6"> : no transmission</tspan></text><text x="1720" y="201" style="font-size:20px"><tspan style="font-style:italic">H</tspan><tspan dy="6" style="font-size:15px">1</tspan><tspan dy="-6"> : transmission</tspan></text><rect x="1313" y="572" width="592" height="172" rx="12" fill="#f3f5f8" stroke="#dde3ea" stroke-width="1.5"/><text x="1330" y="612" text-anchor="start" fill="#10213b" style="font-size:23px" >Covert communication aims to make the transmission</text><text x="1330" y="648" text-anchor="start" fill="#10213b" style="font-size:23px" >statistically indistinguishable from silence:</text><text x="1609" y="712" text-anchor="middle" style="font-size:34px"><tspan style="font-style:italic">&#958;</tspan> = <tspan style="font-style:italic">P</tspan><tspan dy="9" style="font-size:22px">FA</tspan><tspan dy="-9"> + </tspan><tspan style="font-style:italic">P</tspan><tspan dy="9" style="font-size:22px">MD</tspan><tspan dy="-9"> &#8594; 1</tspan></text></svg><figcaption class="ov-dl"><a href="assets/img/research/covert-figure.png?v=1" target="_blank" rel="noopener">Open as image &#8599;</a></figcaption></figure></div>
       <aside class="axis-aside">
         <div class="axis-aside-block"><b>What we measure, what we tune</b><p>Covertness is measured by the warden&rsquo;s detection error probability and the covert rate. The design knobs are power allocation, relay placement, RIS phases, and user selection.</p></div>
         <div class="axis-aside-block"><b>Recent work</b><ul><li><span>GAN-Based Covert Communication in LEO NTN with Time-Varying Channels</span> <em>IEEE ICMIC, 2026</em></li><li><span>Channel Correlation in Multi-User Covert Communication: Friend or Foe?</span> <em>IEEE Transactions on Information Forensics and Security, 2024</em></li><li><span>Multiuser Cooperation for Covert Communication Under Quasi-Static Fading</span> <em>IEEE Transactions on Information Forensics and Security, 2023</em></li><li><span>Statistical Indistinguishability in Multi-User Covert Communications without Secret Information</span> <em>Mathematics, 2026</em></li><li><span>Covert Communication with Spatially Heterogeneous User Cooperation Against a Geometry-Aware Warden</span> <em>submitted to IEEE Transactions on Information Forensics and Security</em></li><li><span>Toward Awareness-Driven Covert ISAC: An Agentic AI Framework Beyond Fixed Tradeoff Boundaries</span> <em>in preparation</em></li><li><span>Method, Apparatus, and System for Achieving Covertness Through Active Cooperative Subset Selection Without Prior Secret Information</span> <em>patent applications, Korea and US, 2026</em></li><li><span>Self-Evolving Covert Distributed AI Networks Based on Sensing, Communication, and Computation Convergence</span> <em>NRF project, Mar. 2026 – Feb. 2030</em></li></ul><a href="publications.html">All publications</a></div>

diff --git a/index.html b/index.html
@@ -101,7 +101,7 @@
     <div class="wrap">
       <div class="section-label-row"><h2 class="section-title">Research</h2></div>
       <div class="scope-grid">
-        <a class="scope-card" href="research.html#covert-communication"><div class="scope-top"><span class="scope-num">01 · Existence</span><span class="scope-abbr">Covert</span></div><b class="scope-verb">Hide</b><p class="scope-obj">the existence of communication</p><h3 class="scope-tech">Covert Communication</h3><span class="scope-link">Read more</span></a>
+        <a class="scope-card" href="research.html#covert-communication"><div class="scope-top"><span class="scope-num">01 · Existence</span><span class="scope-abbr">Covert</span></div><b class="scope-verb">Hide</b><p class="scope-obj">the existence of communication</p><h3 class="scope-tech">Signal-Based Covert Communication</h3><span class="scope-link">Read more</span></a>
         <a class="scope-card" href="research.html#authentication"><div class="scope-top"><span class="scope-num">02 · Authenticity</span><span class="scope-abbr">Auth</span></div><b class="scope-verb">Verify</b><p class="scope-obj">who is transmitting</p><h3 class="scope-tech">Signal-Based Authentication</h3><span class="scope-link">Read more</span></a>
         <a class="scope-card" href="research.html#key-generation"><div class="scope-top"><span class="scope-num">03 · Secret Key</span><span class="scope-abbr">Key Gen</span></div><b class="scope-verb">Establish</b><p class="scope-obj">shared secret keys</p><h3 class="scope-tech">Signal-Based Key Generation</h3><span class="scope-link">Read more</span></a>
         <a class="scope-card" href="research.html#differential-privacy"><div class="scope-top"><span class="scope-num">04 · Data Privacy</span><span class="scope-abbr">DP</span></div><b class="scope-verb">Protect</b><p class="scope-obj">individual data</p><h3 class="scope-tech">Signal-Based Differential Privacy</h3><span class="scope-link">Read more</span></a>
